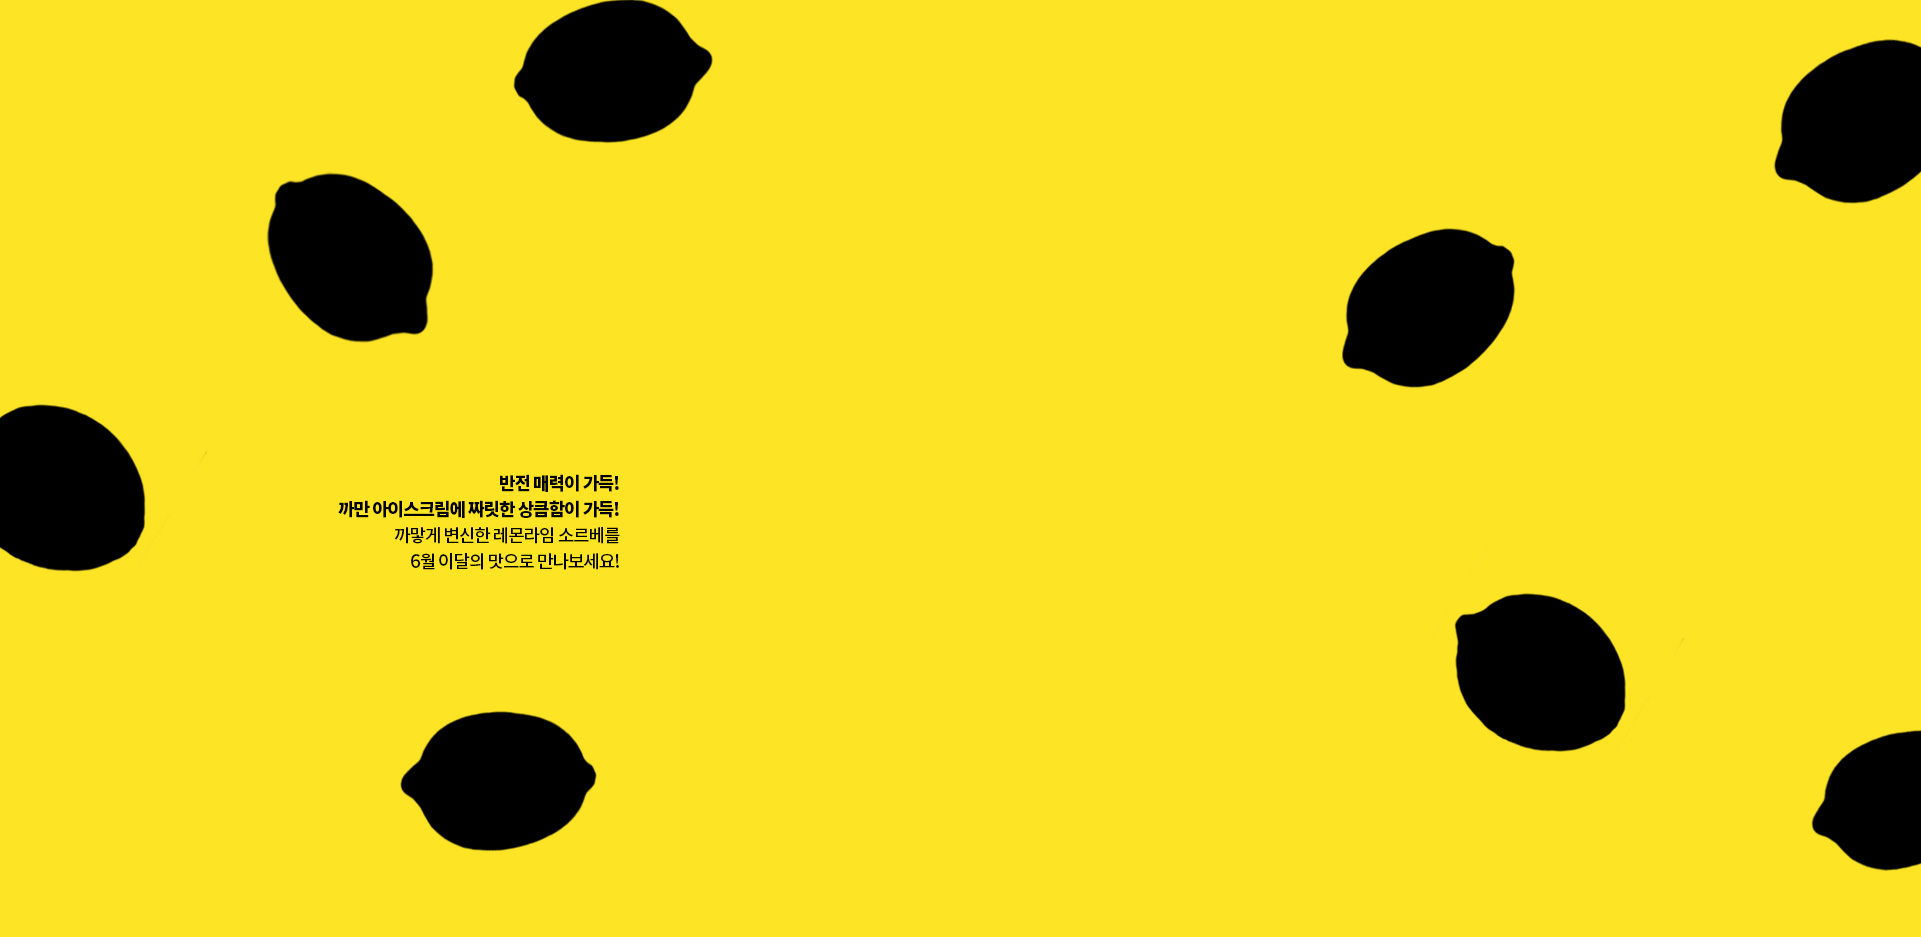
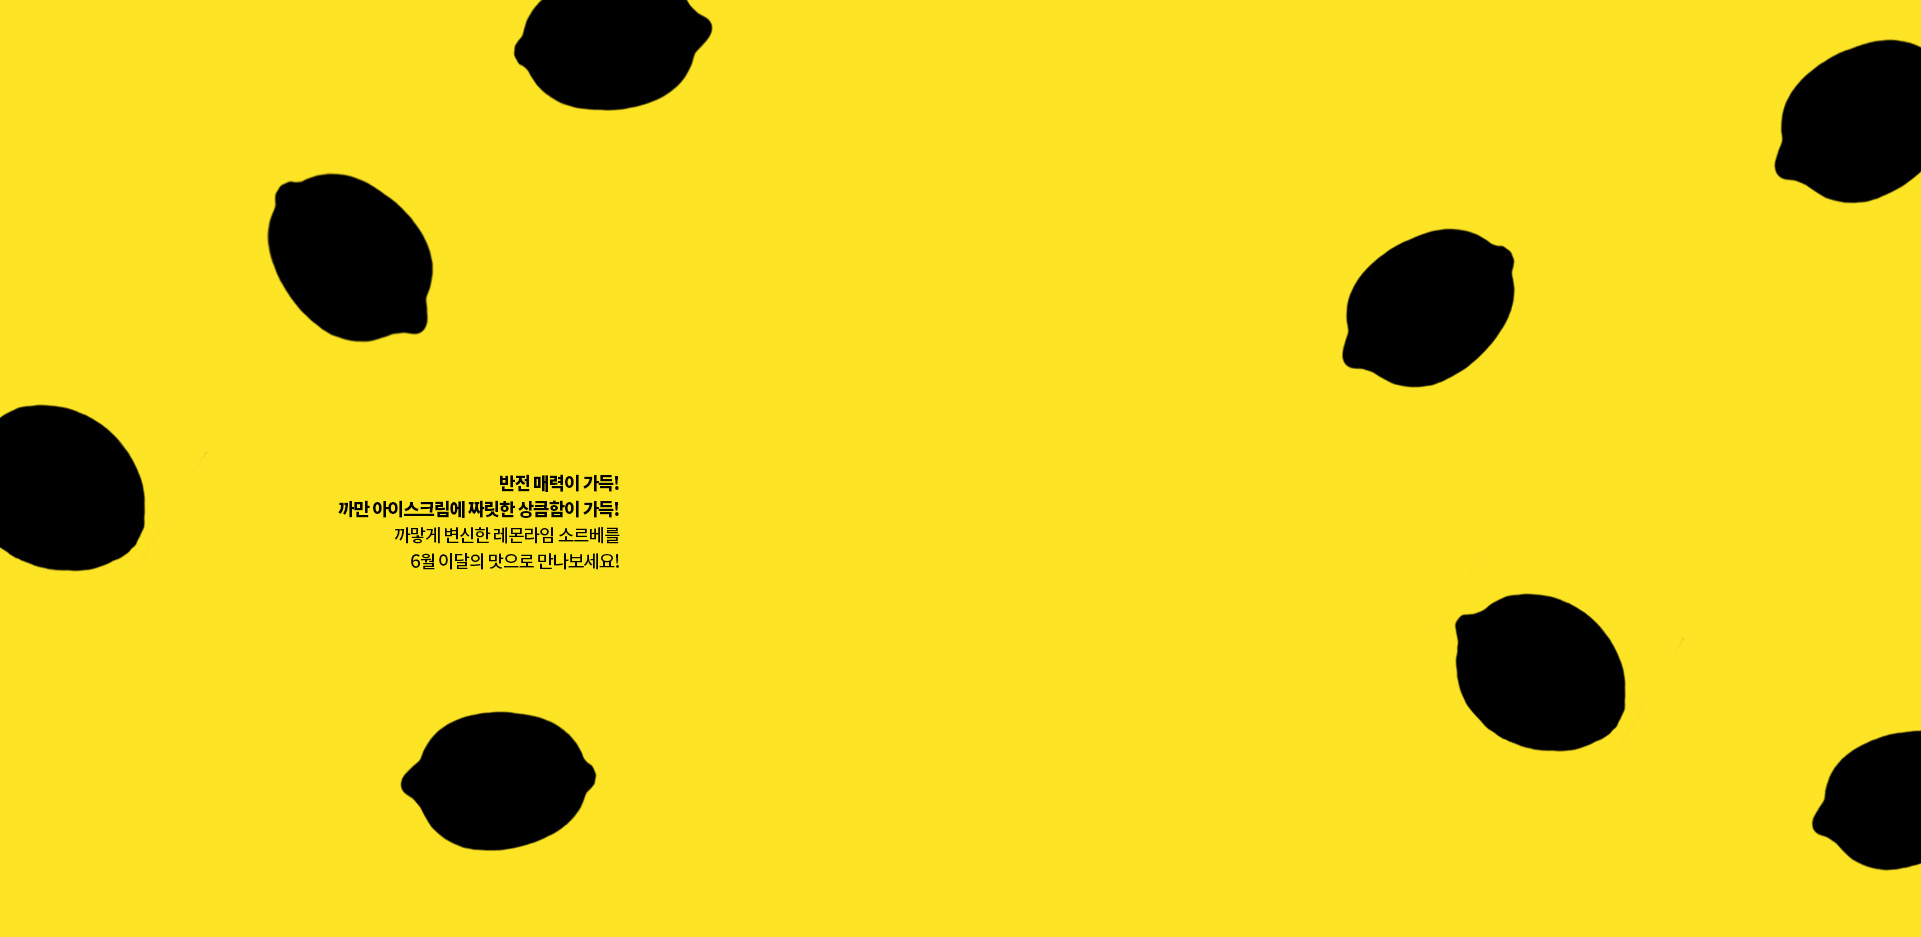
20190809

Changed region(s): [[0.2499, 0.0, 0.3748, 0.1547]]

diff --git a/05.BR/css/style.css b/05.BR/css/style.css
@@ -4,8 +4,12 @@
 /*navTop*/
 #navTop{
 	position: fixed;height: 70px;width: 100%;z-index:5;
-	border-bottom:1px solid #777;
+	border-bottom:1px solid #777;transition:0.6s;
 }
+#navTop.color{
+	background-color: rgba(255,41,131,1);
+}
+
 #navTop h1{
 	position: absolute;left: 95px;top: 19px;
 }
@@ -25,15 +29,32 @@
 }
 #page01 .contents{width: 100%;height: 100%;position: relative;}
 #page01 .contents img{position: absolute;}
-#page01 .contents img.lemon{display:block;width: 100%;height: 100%;top: 0px;left: 0px;}
+
+/*page01 레몬 움직임*/
+#page01 .contents img.lemon{
+	display:block;width: 100%;height: 100%;
+	top: -20px;left: 0px;opacity:0;transition:1s;
+}
+#page01 .contents img.lemon.start{
+	top: 0px;opacity:1;
+}
+
+
+/*아이스크림 콘 움직임*/
 #page01 .contents img.icecream{
-	top: 363px;left:741px;z-index:10;transition:0.5s;
+	top: 363px;left:741px;transition:0.5s;z-index:10;
 }
 #page01 .contents img.icecream.move{
 	top: 1450px;
 }
 #page01 .contents img.title{top: 100px;left:694.5px;z-index:11;}
-#page01 .contents img.icon01{top: 564px;left: 57%;z-index:12;}
+#page01 .contents img.icon01{
+	top: 564px;left: 57%;z-index:12;animation:icon .8s infinite alternate;
+}
+@keyframes icon{
+			from{transform:translate(-5px,-10px);}
+			to{transform:translate(0,0);}
+		}
 
 
 /*icecream*/
@@ -41,14 +62,65 @@
 
 /*page02*/
 #page02{background: #9ccd3e url(../images/page2/bg_page02.jpg) no-repeat;}
+#page02 .contents{width: 100%;height: 100%;position: relative;}
 #page02 .contents img{position: absolute;}
 #page02 .contents img.sub_title{top: 110px;left:874px}
 #page02 .contents img.title{top: 160px;left:543px}
 
 
+/*page02 레몬움직임*/
+#page02 .contents img.lemon01{
+	top: 110px;left:94px;animation:lemon_move 1.3s infinite alternate;
+}
+#page02 .contents img.lemon02{
+	top: 620px;left:220px;animation:lemon_move 0.9s infinite alternate;
+}
+#page02 .contents img.lemon03{
+	top: 450px;right:410px;animation:lemon_move 1.2s infinite alternate;
+}
+#page02 .contents img.lemon04{
+	top: 140px;right:94px;animation:lemon_move 1.1s infinite alternate;
+}
+#page02 .contents img.lemon05{
+	bottom: -180px;right:100px;z-index:12;animation:lemon_move 1s infinite alternate;
+}
+
+@keyframes lemon_move{
+			from{transform:translate(0,-25px);}
+			to{transform:translate(0,0);}
+		}
+
+
+/*page02 스쿱아이스크림*/
+#page02 .contents img.icecream2{
+	top: 0px;left:750px;z-index:12;opacity:0;
+	transition:0.5s;transition-delay:0.6s;
+}
+#page02 .contents img.icecream2.drop{
+	top: 320px;opacity:1;
+}
+
+
 
 /*page03*/
-#page03{background-color: #1a1512;}
+#page03{background-color: #1a1512;z-index:11;}
+#page03 .contents{width: 100%;height: 100%;position: relative;}
+#page03 .contents img{position: absolute;}
+#page03 .contents img.sub_title{top: 140px;left:874px}
+#page03 .contents img.title{top: 195px;left:683.5px}
+
+/*slider*/
+#page03 .contents .slide img.c_img01{top: 370px;left: 346px;}
+#page03 .contents .slide img.c_box01{top: 370px;left:894px;}
+
+
+
+
 
 /*page04*/
 #page04{}
+#page04 .contents{width: 100%;height: 100%;position: relative;}
+#page04 .contents img{position: absolute;}
+#page04 .contents img.sub_title{top: 110px;left:874px}
+#page04 .contents img.title{top: 165px;left:540px}
+#page04 .contents img.text{top: 295px;left:455px}

diff --git a/05.BR/index.html b/05.BR/index.html
@@ -19,19 +19,32 @@
 			navigation:false,
 			afterLoad:function(anchorslink,index){
 					console.log("anchor:"+anchorslink+",index:"+index);
+					if(index == 1){
+						$(".lemon").addClass("start");
+					}else{
+						$(".lemon").removeClass("start");
+					}
+
 					if(index == 2){
 						$(".icecream").addClass("move");
+						$(".icecream2").addClass("drop");
 					}else{
 						$(".icecream").removeClass("move");
+						$(".icecream2").removeClass("drop");
 					}
+
+					if(index == 3){
+						$("#navTop").addClass("color");
+					}else{
+						$("#navTop").removeClass("color");
+					}
+					
 				}
 			
 		});
 	});
 </script>
-<style>
-	.move{top: 600px}
-</style>
+
 <body>
 	<div id="wrap">
 		<nav id="navTop">
@@ -55,12 +68,38 @@
 			</div>
 			<div class="section" id="page02" data-anchor="2nd">
 				<div class="contents">
+					<img src="images/page2/lemon01.png" alt="img" class="lemon01">
+					<img src="images/page2/lemon02.png" alt="img" class="lemon02">
+					<img src="images/page2/lemon03.png" alt="img" class="lemon03">
+					<img src="images/page2/lemon04.png" alt="img" class="lemon04">
+					<img src="images/page2/lemon05.png" alt="img" class="lemon05">
+
 					<img src="images/page2/sub_title.png" alt="sub_title" class="sub_title">
 					<img src="images/page2/title.png" alt="title" class="title">
+
+					<img src="images/page2/icecream2.png" alt="icecream2" class="icecream2">
 				</div>
 			</div>
-			<div class="section" id="page03" data-anchor="3st">menu3</div>
-			<div class="section" id="page04" data-anchor="4st">menu4</div>
+			<div class="section" id="page03" data-anchor="3st">
+				<div class="contents">
+					<img src="images/page3/sub_title.png" alt="sub_title" class="sub_title">
+					<img src="images/page3/title.png" alt="title" class="title">
+
+					<div class="slide">
+						<div class="cont1">
+							<img src="images/page3/c_img01.png" alt="cont1" class="c_img01">
+							<img src="images/page3/c_box01.png" alt="cont1" class="c_box01">
+						</div>
+					</div>
+				</div>
+			</div>
+			<div class="section" id="page04" data-anchor="4st">
+				<div class="contents">
+					<img src="images/page4/sub_title.png" alt="img" class="sub_title">
+					<img src="images/page4/title.png" alt="img" class="title">
+					<img src="images/page4/text.png" alt="img" class="text">
+				</div>
+			</div>
 		</div>
 	</div>
 </body>
